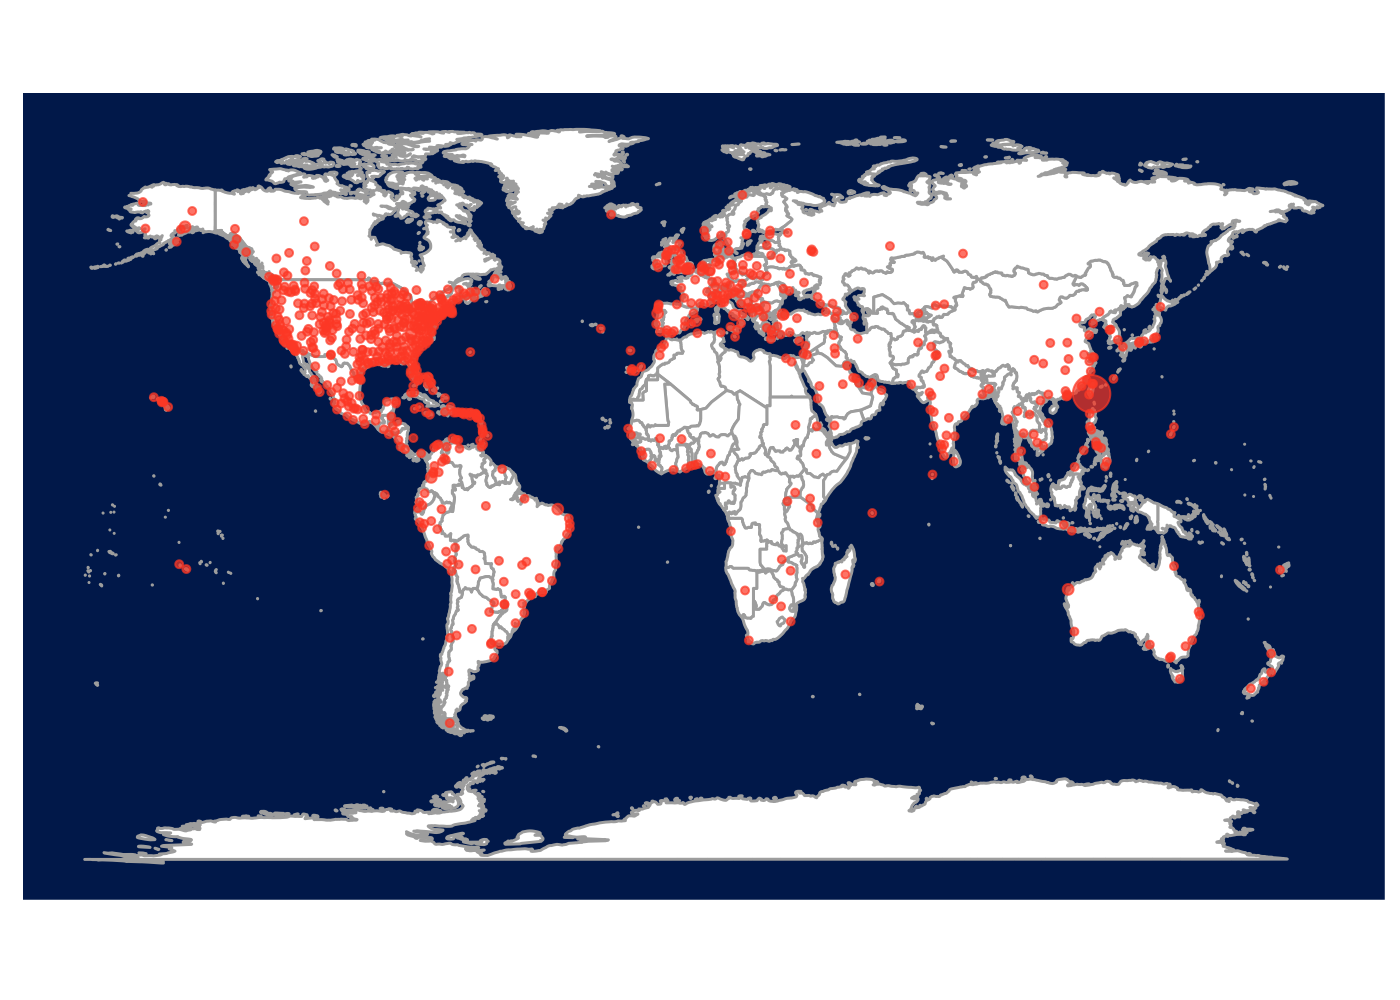
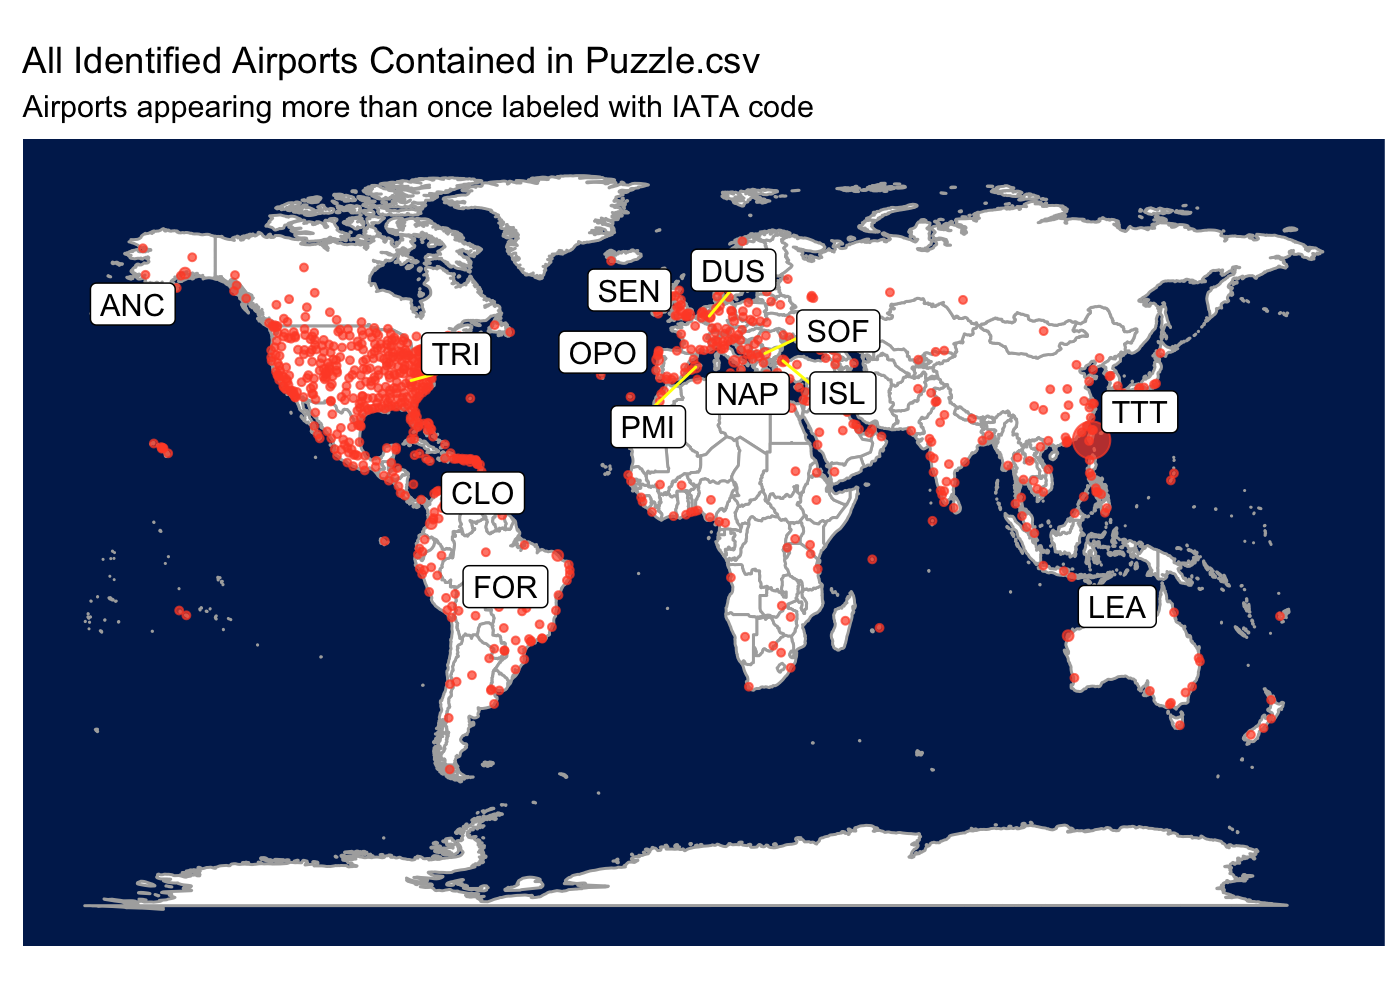
Edited final plot

diff --git a/README.md b/README.md
@@ -212,25 +212,20 @@ combined %>%
 
 Unfortunately, this seems like a random slice of 1024 flights, 102 of which are arriving/departing from Taitung Airport in Taiwan (perhaps early morning there?). Not much more to gain by analyzing this any further, but I'll write the result to CSV and make one final plot, overlaying the coordinates on a map of the world using the maps/mapdata package.
 
-``` r
-write_csv(combined, "output/solution.csv")
-
-library(maps); library(mapdata)
-world <- map_data("world")
-combined %>% 
-  ggplot() +
-  geom_polygon(data=world, aes(x=long, y=lat, group=group), fill = "white", color = "#adadad", size=0.5) +
-  geom_point(aes(x=long, y=lat, size=n), color="#ff512f", alpha=0.7, na.rm = T) +
-  coord_fixed(1.3) +
-  theme(
-    panel.background = element_rect(fill = "#00235b", color = NULL),
-    panel.grid = element_blank(),
-    legend.position = "none",
-    axis.title = element_blank(),
-    axis.text = element_blank(),
-    axis.line = element_blank(),
-    axis.ticks = element_blank()
-  )
-```
-
 ![](README_files/figure-markdown_github/unnamed-chunk-12-1.png)
+
+|  Count| IATA | Airport                                      | City              | Country        |
+|------:|:-----|:---------------------------------------------|:------------------|:---------------|
+|    101| TTT  | Taitung Airport                              | Fengnin           | Taiwan         |
+|      2| ANC  | Ted Stevens Anchorage International Airport  | Anchorage         | United States  |
+|      2| TRI  | Tri-Cities Regional TN/VA Airport            | BRISTOL           | United States  |
+|      2| CLO  | Alfonso Bonilla Aragon International Airport | Cali              | Colombia       |
+|      2| FOR  | Pinto Martins International Airport          | Fortaleza         | Brazil         |
+|      2| OPO  | Francisco de Sá Carneiro Airport             | Porto             | Portugal       |
+|      2| SEN  | Southend Airport                             | Southend          | United Kingdom |
+|      2| PMI  | Palma De Mallorca Airport                    | Palma de Mallorca | Spain          |
+|      2| DUS  | Düsseldorf Airport                           | Duesseldorf       | Germany        |
+|      2| NAP  | Naples International Airport                 | Naples            | Italy          |
+|      2| SOF  | Sofia Airport                                | Sofia             | Bulgaria       |
+|      2| ISL  | Atatürk International Airport                | Istanbul          | Turkey         |
+|      2| LEA  | Learmonth Airport                            | Learmonth         | Australia      |
